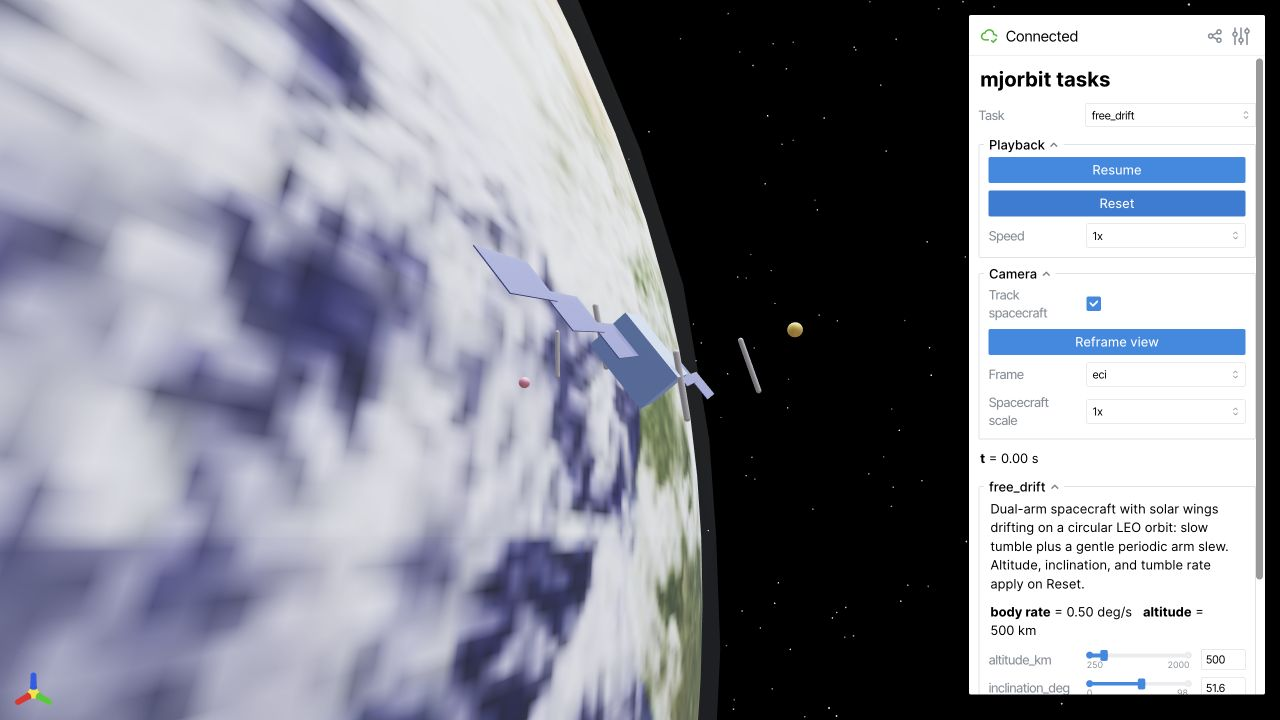
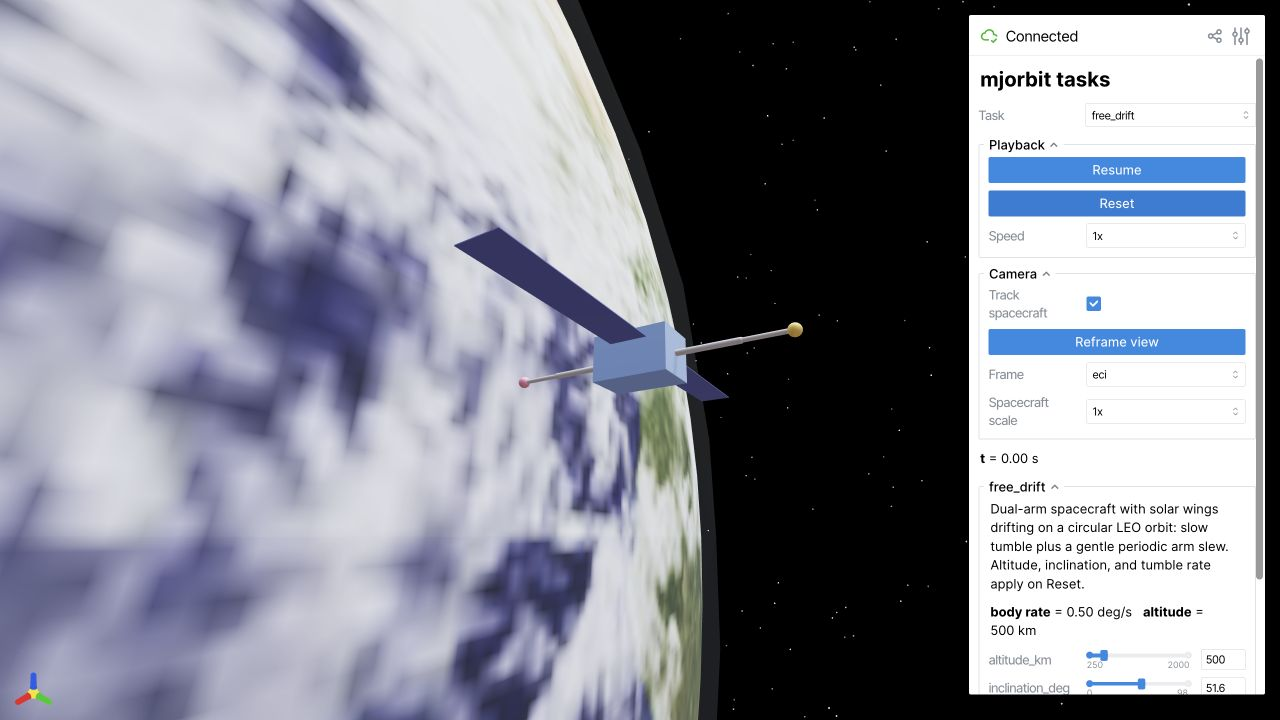
Clear stale viewer transforms when rebuilding scenes

Changed region(s): [[0.3438, 0.3056, 0.625, 0.5806]]

diff --git a/tests/mjorbit/test_viewer_app.py b/tests/mjorbit/test_viewer_app.py
@@ -3,9 +3,11 @@ from __future__ import annotations
 import functools
 import socket
 
+import mujoco
 import numpy as np
 import pytest
 import trimesh.visual
+import viser.transforms as vtf
 
 from mjorbit import mjo_forward
 from mjorbit.constants import R_EARTH
@@ -304,3 +306,72 @@ def test_app_cli_list_tasks(capsys) -> None:
     main(["--list-tasks"])
     out = capsys.readouterr().out
     assert "free_drift" in out
+
+
+@pytest.mark.parametrize("render_frame", ["eci", "lvlh"])
+def test_reset_republishes_browser_geometry_poses(render_frame: str) -> None:
+    """A rebuilt scene must not inherit name-keyed poses from before Reset.
+
+    Checking Python handles alone misses this: Viser can retain an old pose in
+    its browser message buffer while a replacement handle reports identity.
+    """
+    _require_viewer_server()
+    from viewer.app import MjOrbitApp
+
+    app = MjOrbitApp(port=0, render_frame=render_frame, textured_earth=False, stars=False)
+    try:
+        task = app.task
+        assert task is not None
+        task.data.qpos[:3] = [0.2, -0.3, 0.1]
+        task.data.qpos[3:7] = vtf.SO3.from_rpy_radians(0.2, -0.3, 0.4).wxyz
+        task.data.qpos[7:] = np.linspace(0.1, 0.6, task.model.nq - 7)
+        mjo_forward(task.model, task.data)
+        app._render()
+
+        # Follow the app's Reset path, including rebuilding nodes at the same
+        # paths and a subsequent mesh rebuild when the display scale changes.
+        task.reset()
+        app._attach_scene()
+        assert app.mj_scene is not None
+        app._scale = 3.0
+        app.mj_scene.set_scale(app._scale)
+        app._render()
+
+        # Read the actual retained messages replayed to a connecting browser.
+        # Keep this Viser-internal access here, out of production code.
+        buffer = app.server._websock_server._broadcast_buffer
+        with buffer.buffer_lock:
+            messages = list(buffer.message_from_id.values())
+        positions, rotations = {}, {}
+        for message in messages:
+            if type(message).__name__ == "SetPositionMessage":
+                positions[message.name] = np.asarray(message.position)
+            elif type(message).__name__ == "SetOrientationMessage":
+                rotations[message.name] = vtf.SO3(np.asarray(message.wxyz)).as_matrix()
+
+        # Independent reference: plain MuJoCo forward kinematics, including
+        # the static capsule rotations and the solar panels' local offsets.
+        reference = mujoco.MjModel.from_xml_string(task.model._raw_xml)
+        state = mujoco.MjData(reference)
+        state.qpos[:] = task.data.qpos
+        mujoco.mj_forward(reference, state)
+        rotation = task.data.frame.C_LI if render_frame == "lvlh" else np.eye(3)
+        for geom_id in range(reference.ngeom):
+            body_name = task.model.body_name(int(reference.geom_bodyid[geom_id]))
+            body_path = f"/task/spacecraft/{body_name}"
+            geom_path = f"{body_path}/{task.model.geom_name(geom_id)}"
+            body_rotation = rotations.get(body_path, np.eye(3))
+            position = positions.get(body_path, np.zeros(3)) + body_rotation @ positions.get(
+                geom_path, np.zeros(3)
+            )
+            orientation = body_rotation @ rotations.get(geom_path, np.eye(3))
+            np.testing.assert_allclose(
+                position, app._scale * (rotation @ state.geom_xpos[geom_id]),
+                atol=1e-8, err_msg=geom_path,
+            )
+            np.testing.assert_allclose(
+                orientation, rotation @ state.geom_xmat[geom_id].reshape(3, 3),
+                atol=1e-8, err_msg=geom_path,
+            )
+    finally:
+        app.close()

diff --git a/src/viewer/bodies.py b/src/viewer/bodies.py
@@ -78,6 +78,16 @@ def _apply_color(mesh: trimesh.Trimesh, rgba: np.ndarray) -> None:
     )
 
 
+def _remove_node(handle: viser.SceneNodeHandle) -> None:
+    # Viser retains name-keyed poses after removal. A replacement handle starts
+    # at identity/zero and suppresses assignments equal to those defaults, so a
+    # reset can otherwise leave browsers using the previous body's orientation.
+    # Publish the defaults while the old handle still knows its previous pose.
+    handle.wxyz = (1.0, 0.0, 0.0, 0.0)
+    handle.position = (0.0, 0.0, 0.0)
+    handle.remove()
+
+
 class MuJoCoScene:
     """Renders MuJoCo model geometry in a viser scene.
 
@@ -278,21 +288,23 @@ class MuJoCoScene:
         return geometry
 
     def set_scale(self, scale: float) -> None:
-        self._scale = float(scale)
-        for handle in self._geom_handles:
-            handle.remove()
-        self._geom_handles.clear()
-        self._build_geom_meshes()
+        with self._server.atomic():
+            self._scale = float(scale)
+            for handle in self._geom_handles:
+                _remove_node(handle)
+            self._geom_handles.clear()
+            self._build_geom_meshes()
 
     def remove(self) -> None:
         """Remove every scene node owned by this scene."""
-        for handle in self._geom_handles:
-            handle.remove()
-        self._geom_handles.clear()
-        for frame in self._body_frames:
-            frame.remove()
-        self._body_frames.clear()
-        self._root_frame.remove()
+        with self._server.atomic():
+            for handle in self._geom_handles:
+                _remove_node(handle)
+            self._geom_handles.clear()
+            for frame in self._body_frames:
+                _remove_node(frame)
+            self._body_frames.clear()
+            _remove_node(self._root_frame)
 
     def update(
         self,

diff --git a/CHANGELOG.md b/CHANGELOG.md
@@ -8,6 +8,8 @@
   Sphinx documentation for installation, modeling, frames, actuators, sensors,
   planning, and backend synchronization.
 - Start the task viewer in free drift by default.
+- Clear retained browser transforms when rebuilding viewer scenes so Reset
+  keeps articulated arms and solar arrays attached.
 - Modernize introductory examples to use editable specs and `model.make_data`.
 - Remove the unused CVXPY runtime dependency and exclude local native build
   products from source distributions.
